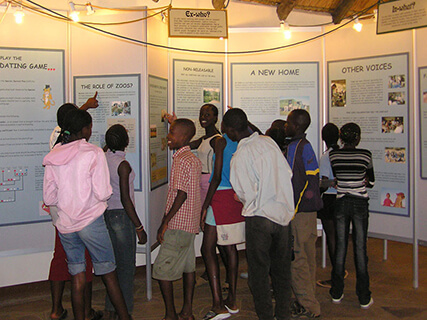
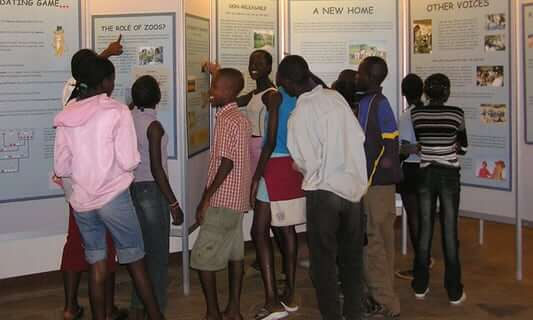
Fix/issue #95

diff --git a/src/components/shared/ImageSlidingGallery.js b/src/components/shared/ImageSlidingGallery.js
@@ -4,7 +4,7 @@
  *
  * Author   : Tomiko
  * Created  : Jul 06, 2020
- * Updated  : Aug 19, 2020
+ * Updated  : Aug 08, 2021
  */
 
 /**
@@ -13,6 +13,12 @@
  * `ImageSlidingGallery` is a component that illustrates a set of
  * user specified images one at a time, along with a piece of
  * caption string annotating the image.
+ *
+ * It is advisable to have all the images in the same dimension,
+ * or at least same aspect ratios. Otherwise the rendering output
+ * may cause "page jump" effect.
+ *
+ * https://github.com/tetrachrome/chewbaaka/issues/95
  *
  * Props:
  *
@@ -80,16 +86,16 @@ export default class ImageSlidingGallery extends React.Component {
             src={activeSlide.image}
             alt={caption}
           />
-          <div
+          {this.renderPrevNextButtonGroup()}
+        </div>
+        <div
             className="ImageSlidingGalleryCaptionPart"
             data-testid="ImageSlidingGalleryCaptionPart"
           >
             <Caption
               caption={caption}
             />
-          </div>
         </div>
-        {this.renderPrevNextButtonGroup()}
       </div>
     );
   }

diff --git a/src/components/shared/ImageSlidingGallery.css b/src/components/shared/ImageSlidingGallery.css
@@ -4,31 +4,39 @@
  *
  * Author   : Tomiko
  * Created  : Jul 06, 2020
- * Updated  : Aug 12, 2020
+ * Updated  : Aug 08, 2021
  */
 
 div.ImageSlidingGalleryOuterContainer {
   display: block;
   position: relative;
-}
-
-div.ImageSlidingGalleryCoreContainer {
-  position: relative;
-  padding-left: 55px;
-  /* display: inline-block; */
   display: inline-flex;
   flex-direction: column;
   flex-wrap: nowrap;
 }
 
+div.ImageSlidingGalleryCoreContainer {
+  position: relative;
+  padding-left: 55px;
+}
+
 img.ImageSlidingGalleryImgPart {
   max-width: 100%;
+  max-height: 320px;
+  object-fit: contain;
+  text-align: left;
   filter: drop-shadow(1px 1px 1px #222);
+}
+
+div.ImageSlidingGalleryCaptionPart {
+  position: relative;
+  padding-left: 55px;
 }
 
 div.ImageSlidingGalleryButtonContainer {
   position: absolute;
   justify-content: center;
+  margin: 0;
   left: 0px;
   top: 50%;
   transform: translateY(-50%);
